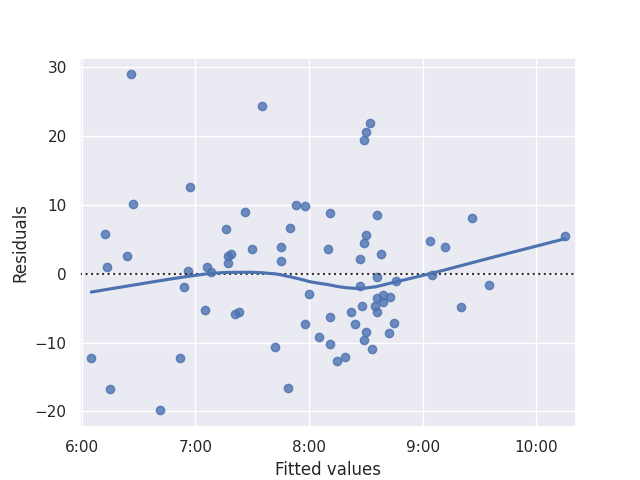
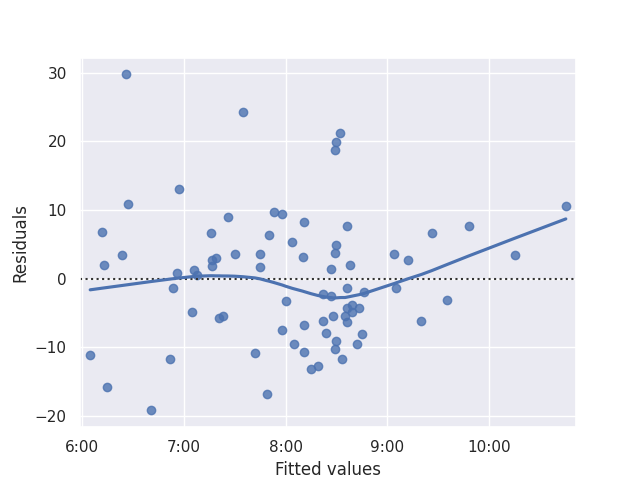
added grid search with k cross-fold validation

diff --git a/model.py b/model.py
@@ -2,8 +2,7 @@ import numpy as np
 import pandas as pd 
 from statsmodels.formula.api import ols
 from sklearn.tree import DecisionTreeRegressor
-from sklearn.model_selection import train_test_split, cross_val_score, GridSearchCV
-#from sklearn.model_selection import KFold 
+from sklearn.model_selection import train_test_split, cross_val_score, KFold, GridSearchCV
 from sklearn.metrics import mean_squared_error as MSE
 from sklearn.inspection import permutation_importance 
 from sklearn.ensemble import GradientBoostingRegressor, RandomForestRegressor, VotingRegressor
@@ -58,6 +57,24 @@ def fit_dtr(X_train, X_test, y_train, y_test):
     mse = compute_mse(dt, 'DTR', X_train, X_test, y_train, y_test)
     return dt, mse
 
+def fit_dtr_with_grid_search(X_train, X_test, y_train, y_test):
+    X = pd.concat([X_train, X_test], axis=0)
+    y = np.concatenate((y_train, y_test), axis=0)
+    dt = DecisionTreeRegressor()
+    param_grid = {'max_depth': [5, 10, 20],
+              'min_samples_split': [2, 5, 10],
+              'min_samples_leaf': [1, 2, 4],
+              'max_features': ['sqrt']
+              }
+    grid_search = GridSearchCV(estimator=dt, param_grid=param_grid, cv=5, n_jobs=-1, scoring='neg_mean_squared_error')
+    grid_search.fit(X, y)
+    best_params = grid_search.best_params_
+    best_score = grid_search.best_score_
+    best_dt = XGBRegressor(**best_params)
+    best_dt.fit(X_train, y_train)
+
+    return best_dt, best_score, best_params
+
 def fit_gbr(X_train, X_test, y_train, y_test):
     params = {
         "n_estimators": 500,
@@ -102,6 +119,24 @@ def fit_gbr(X_train, X_test, y_train, y_test):
 
     return reg, mse, params 
 
+def fit_gbr_with_grid_search(X_train, X_test, y_train, y_test):
+    X = pd.concat([X_train, X_test], axis=0)
+    y = np.concatenate((y_train, y_test), axis=0)
+    gbm = GradientBoostingRegressor()
+    param_grid = {
+        'learning_rate': [0.1, 0.01, 0.001],
+        'n_estimators': [50, 100, 150],
+        'max_depth': [3, 5, 7]
+    }
+    grid_search = GridSearchCV(estimator=gbm, param_grid=param_grid, cv=5, n_jobs=-1, scoring='neg_mean_squared_error')
+    grid_search.fit(X, y)
+    best_params = grid_search.best_params_
+    best_score = grid_search.best_score_
+    best_gbm = GradientBoostingRegressor(**best_params)
+    best_gbm.fit(X_train, y_train)
+
+    return best_gbm, best_score, best_params
+
 def fit_xgbr(X_train, X_test, y_train, y_test):
     # params = {
     #     "n_estimators": 500,
@@ -116,6 +151,24 @@ def fit_xgbr(X_train, X_test, y_train, y_test):
     reg.fit(X_train, y_train)
     mse = compute_mse(reg, 'XGBR', X_train, X_test, y_train, y_test)
     return reg, mse
+
+def fit_xgbr_with_grid_search(X_train, X_test, y_train, y_test):
+    X = pd.concat([X_train, X_test], axis=0)
+    y = np.concatenate((y_train, y_test), axis=0)
+    xgbm = XGBRegressor()
+    param_grid = {
+        'learning_rate': [0.1, 0.01, 0.001],
+        'n_estimators': [50, 100, 150],
+        'max_depth': [3, 5, 7]
+    }
+    grid_search = GridSearchCV(estimator=xgbm, param_grid=param_grid, cv=5, n_jobs=-1, scoring='neg_mean_squared_error')
+    grid_search.fit(X, y)
+    best_params = grid_search.best_params_
+    best_score = grid_search.best_score_
+    best_xgbm = XGBRegressor(**best_params)
+    best_xgbm.fit(X_train, y_train)
+
+    return best_xgbm, best_score, best_params
 
 def fit_rfr(X_train, X_test, y_train, y_test):
     # These params were determined the best through the below GridSearchCV
@@ -153,6 +206,25 @@ def fit_rfr(X_train, X_test, y_train, y_test):
     # {'max_depth': 3, 'max_features': 'sqrt', 'n_estimators': 200, 'random_state': 18}
 
     return rf, mse 
+
+def fit_rfr_with_grid_search(X_train, X_test, y_train, y_test):
+    X = pd.concat([X_train, X_test], axis=0)
+    y = np.concatenate((y_train, y_test), axis=0)
+    rf = RandomForestRegressor()
+    param_grid = {'n_estimators': [100, 200, 500],
+              'max_features': ['sqrt'],
+              'max_depth': [5, 10, 20],
+              'min_samples_split': [2, 5, 10],
+              'min_samples_leaf': [1, 2, 4],
+              }
+    grid_search = GridSearchCV(estimator=rf, param_grid=param_grid, cv=5, n_jobs=-1, scoring='neg_mean_squared_error')
+    grid_search.fit(X, y)
+    best_params = grid_search.best_params_
+    best_score = grid_search.best_score_
+    best_rf = XGBRegressor(**best_params)
+    best_rf.fit(X_train, y_train)
+
+    return best_rf, best_score, best_params
 
 def fit_nn(X_train, X_test, y_train, y_test):
     nn = Sequential()

diff --git a/make_plots.py b/make_plots.py
@@ -115,7 +115,7 @@ def duration_vs_departure(df, start='home', end='work', order=1, gbr=False, dtr=
 
     # Practice with statsmodels
     x, y = model.linear_prediction_from_statsmodels(df, start, end)
-    ax.plot(x, y, c='b', label='Linear')
+    ax.plot(x, y, c='b', label='Linear', linestyle='dotted')
 
     # Split data into training and test sets
     if(gbr or dtr or rfr or nn or xgb):
@@ -128,7 +128,9 @@ def duration_vs_departure(df, start='home', end='work', order=1, gbr=False, dtr=
     # Practice with gradient boosting regression
     if(gbr):
         start_time = time.time()
-        gbreg, mse, params = model.fit_gbr(X_train, X_test, y_train, y_test)
+        # gbreg, mse, params = model.fit_gbr(X_train, X_test, y_train, y_test)
+        gbreg, mse, params = model.fit_gbr_with_grid_search(X_train, X_test, y_train, y_test)
+        print(params)
         x, y = model.prediction(gbreg, df, start)
         print("GBR --- %s seconds ---" % (time.time() - start_time))
         ax.plot(x, y, c='c', label='Gradient Boosting')
@@ -136,14 +138,18 @@ def duration_vs_departure(df, start='home', end='work', order=1, gbr=False, dtr=
     # Practice with decision tree regression
     if(dtr):
         start_time = time.time()
-        dtreg, mse = model.fit_dtr(X_train, X_test, y_train, y_test)
+        # dtreg, mse = model.fit_dtr(X_train, X_test, y_train, y_test)
+        dtreg, mse, params = model.fit_dtr_with_grid_search(X_train, X_test, y_train, y_test)
+        print(params)
         x, y = model.prediction(dtreg, df, start)
         print("DTR --- %s seconds ---" % (time.time() - start_time))
         ax.plot(x, y, c='g', label='Decision Tree')
 
     if(rfr):
         start_time = time.time()
-        rfreg, mse = model.fit_rfr(X_train, X_test, y_train, y_test)
+        # rfreg, mse = model.fit_rfr(X_train, X_test, y_train, y_test)
+        rfreg, mse, params = model.fit_rfr_with_grid_search(X_train, X_test, y_train, y_test)
+        print(params)
         x, y = model.prediction(rfreg, df, start)
         print("RFR --- %s seconds ---" % (time.time() - start_time))
         ax.plot(x, y, c='m', label='Random Forest')
@@ -157,7 +163,9 @@ def duration_vs_departure(df, start='home', end='work', order=1, gbr=False, dtr=
 
     if(xgb):
         start_time = time.time()
-        xgbreg, mse = model.fit_xgbr(X_train, X_test, y_train, y_test)
+        # xgbreg, mse = model.fit_xgbr(X_train, X_test, y_train, y_test)
+        xgbreg, mse, params = model.fit_xgbr_with_grid_search(X_train, X_test, y_train, y_test)
+        print(params)
         x, y = model.prediction(xgbreg, df, start)
         print("XGB --- %s seconds ---" % (time.time() - start_time))
         ax.plot(x, y, c='k', label='XGBoost')
@@ -198,11 +206,11 @@ def duration_vs_departure(df, start='home', end='work', order=1, gbr=False, dtr=
     plot_residuals(start, end, df)
     
     # Plot the gradient boosting regression training deviance
-    if(gbr):
-        plot_gbr_training_deviance(start, end, params, gbreg, X_test, y_test)
+    # if(gbr):
+    #     plot_gbr_training_deviance(start, end, params, gbreg, X_test, y_test)
     
-    if(gbr):
-        plot_feature_importance(start, end, gbreg, X_test, y_test, df)
+    # if(gbr):
+    #     plot_feature_importance(start, end, gbreg, X_test, y_test, df)
     
     minutes_violin(start, end, df)
     
